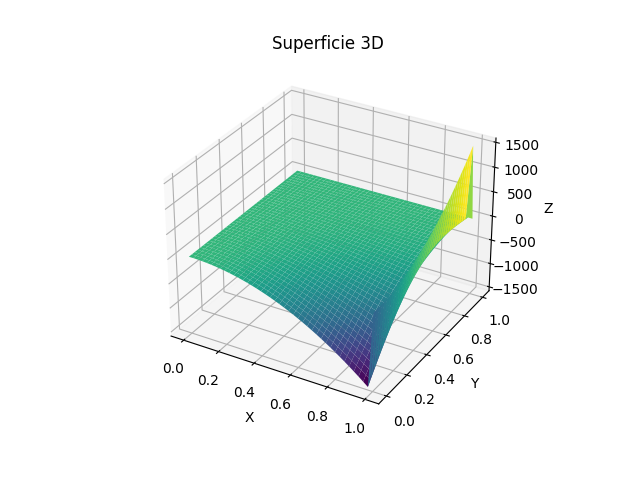
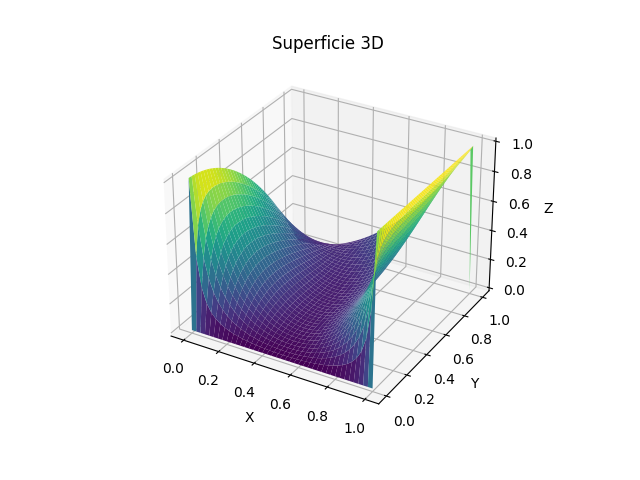
cambios

diff --git a/Poisson4.py b/Poisson4.py
@@ -13,7 +13,7 @@ k = (d - c) / M
 w = [[0 for i in range(N + 1)] for j in range(M + 1)]
 
 def f(i, j):
-    return 0
+    return (a + i * h) * (c + j*k) * (1- a - i*h) * (1 - c - j*k)
 
 for i in range(N):
     for j in range(M):
@@ -21,17 +21,18 @@ for i in range(N):
 
 # Aquí introducimos los datos de contorno
 for i in range(1, N):
-    w[0][i] = 0
-    w[M][i] = (a + i*h)**2
+    w[i][0] = 0
+    w[i][M] = 0
 
 for j in range(1, M):
-    w[j][0] = 1 - (c + j*k)**2
-    w[j][N] = 1
+    w[0][j] = 0
+    w[N][j] = 0
 
 for p in range(100):
     for i in range(1, N):
         for j in range(1, M):
-            w[i][j] = (k ** 2 * (w[i + 1][j] + w[i - 1][j]) + h ** 2 * (w[i][j + 1] + w[i][j - 1]) - (h * k) ** 2 * f(i, j)) / (2 * (h ** 2 + k ** 2))
+            w[i][j] = (k ** 2 * (w[i + 1][j] + w[i - 1][j]) + h ** 2 * (w[i][j + 1] + w[i][j - 1]) - (
+                        h * k) ** 2 * f(i, j)) / (2 * (h ** 2 + k ** 2))
 
 # Definir los puntos x, y, z para la superficie
 x = np.linspace(a, b, M + 1)
@@ -53,5 +54,5 @@ ax.set_zlabel('Z')
 ax.set_title('Superficie 3D')
 
 # Mostrar el gráfico
-plt.savefig('img/Poisson2.png')
+plt.savefig('img/Poisson4.png')
 plt.show()

diff --git a/Poisson5.py b/Poisson5.py
@@ -3,9 +3,9 @@ import matplotlib.pyplot as plt
 from mpl_toolkits.mplot3d import Axes3D
 
 a = 0
-b = 1
+b = np.pi
 c = 0
-d = 1
+d = np.pi
 N = 40
 M = 40
 h = (b - a) / N
@@ -21,17 +21,18 @@ for i in range(N):
 
 # Aquí introducimos los datos de contorno
 for i in range(1, N):
-    w[0][i] = 0
-    w[M][i] = (a + i*h)**2
+    w[i][0] = 0
+    w[i][M] = 0
 
 for j in range(1, M):
-    w[j][0] = 1 - (c + j*k)**2
-    w[j][N] = 1
+    w[0][j] = c + j * k
+    w[N][j] = c + j * k
 
 for p in range(100):
     for i in range(1, N):
         for j in range(1, M):
-            w[i][j] = (k ** 2 * (w[i + 1][j] + w[i - 1][j]) + h ** 2 * (w[i][j + 1] + w[i][j - 1]) - (h * k) ** 2 * f(i, j)) / (2 * (h ** 2 + k ** 2))
+            w[i][j] = (k ** 2 * (w[i + 1][j] + w[i - 1][j]) + h ** 2 * (w[i][j + 1] + w[i][j - 1]) - (
+                        h * k) ** 2 * f(i, j)) / (2 * (h ** 2 + k ** 2))
 
 # Definir los puntos x, y, z para la superficie
 x = np.linspace(a, b, M + 1)
@@ -53,5 +54,5 @@ ax.set_zlabel('Z')
 ax.set_title('Superficie 3D')
 
 # Mostrar el gráfico
-plt.savefig('img/Poisson2.png')
+plt.savefig('img/Poisson.png')
 plt.show()
